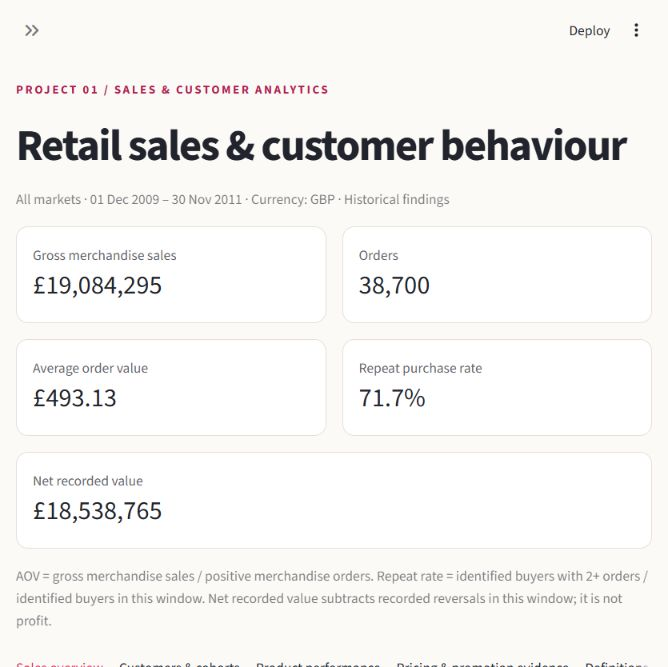
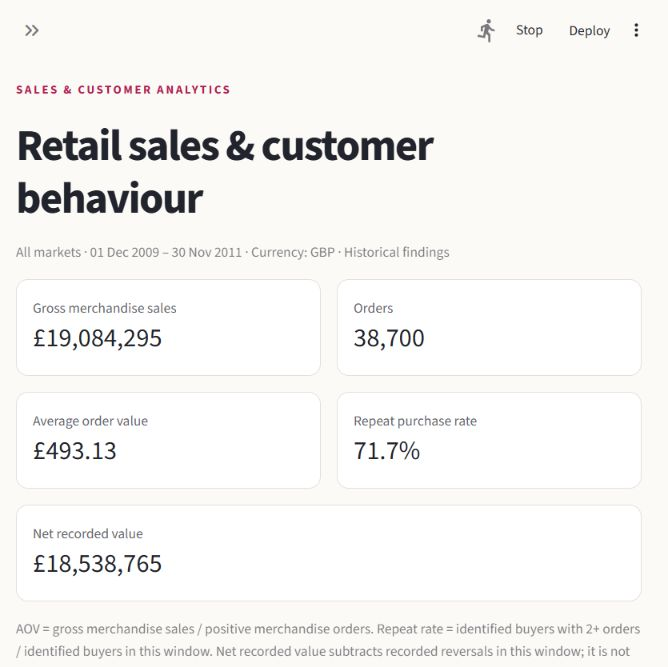
Use descriptive study names throughout the portfolio

diff --git a/retail_ops/sales_page.py b/retail_ops/sales_page.py
@@ -66,7 +66,7 @@ if len(window) != 2:
     st.info("Select both a start and an end date.")
     st.stop()
 start, end = window
-st.markdown('<div class="eyebrow">PROJECT 01 / SALES & CUSTOMER ANALYTICS</div>', unsafe_allow_html=True)
+st.markdown('<div class="eyebrow">SALES & CUSTOMER ANALYTICS</div>', unsafe_allow_html=True)
 st.title("Retail sales & customer behaviour")
 st.caption(f"{country} · {start:%d %b %Y} – {end:%d %b %Y} · Currency: GBP · Historical findings")
 if start.day != 1 or end != (pd.Timestamp(end) + pd.offsets.MonthEnd(0)).date():
@@ -152,7 +152,7 @@ with products:
     export(visible.drop(columns="label"), "products")
     st.subheader("Decisions to investigate")
     st.markdown(f"""
-- **Availability:** review the top 20 SKUs, which account for **{p.head(20).gross_sales_gbp.sum()/k.gross_sales_gbp:.1%}** of this selection's gross sales. Test replenishment rules in project 2 before claiming stockout reduction.
+- **Availability:** review the top 20 SKUs, which account for **{p.head(20).gross_sales_gbp.sum()/k.gross_sales_gbp:.1%}** of this selection's gross sales. Test replenishment rules in the inventory simulation before claiming stockout reduction.
 - **Retention:** compare recent one-time buyers with repeat buyers, then test a follow-up offer using a control group. Historical segment differences do not prove campaign uplift.
 - **Reversal exceptions:** investigate SKUs with high recorded reversals and check invoice-level context before changing assortment.
 - **Trading calendar:** use complete-month history to plan peak capacity. Validate any future plan with time-based forecast backtests.
@@ -178,7 +178,7 @@ with methods:
 - **Merchandise rule:** a five-digit SKU with up to two trailing letters. This is a documented heuristic; fees and manual adjustments are excluded.
 - **Duplicates:** remove identical invoice copies across source sheets. Retain repeated lines within an invoice because they may represent genuine order entries. The audit reports the sales sensitivity if duplicate candidates are dropped.
 - **Money:** integer thousandths of GBP preserve the source's three-decimal prices. No exchange-rate conversion, margin, or causal impact is claimed.
-- **Forecast handoff:** project 2 uses the same daily sales to compare forecasts with simple baselines, then replays inventory policies. Open Forecast & inventory in the navigation for its historical errors and simulated results.
+- **Forecast handoff:** the forecasting study uses the same daily sales to compare forecasts with simple baselines, then replays inventory policies. Open Forecast & inventory in the navigation for its historical errors and simulated results.
 """)
     st.subheader("Review the SQL behind each result")
     name = st.selectbox("Query", ["kpis", "monthly", "products", "segments", "cohorts", "countries", "price_variation"])

diff --git a/retail_ops/forecast_page.py b/retail_ops/forecast_page.py
@@ -17,7 +17,7 @@ h1 {letter-spacing:-1px;font-weight:750!important}
 @media(max-width:1000px){[data-testid="stHorizontalBlock"]{flex-wrap:wrap}
 [data-testid="stColumn"]{min-width:min(100%,240px);flex:1 1 240px!important}}
 </style>""", unsafe_allow_html=True)
-st.markdown('<div class="eyebrow">PROJECT 02 / FORECASTING & INVENTORY</div>', unsafe_allow_html=True)
+st.markdown('<div class="eyebrow">FORECASTING & INVENTORY</div>', unsafe_allow_html=True)
 st.title("Forecast accuracy meets inventory decisions")
 if not (OUT / "metadata.json").exists():
     st.info("Build this project first: python -m retail_ops.build_forecasting")
@@ -180,4 +180,4 @@ with design_tab:
     st.subheader("Training-only SKU selection")
     st.dataframe(data["selection"],hide_index=True,width="stretch")
     download(data["selection"],"training_selected_skus")
-    st.caption("Source: Chen, D. (2012), Online Retail II, UCI, CC BY 4.0. The common data audit and cleaning decisions are documented in project 1.")
+    st.caption("Source: Chen, D. (2012), Online Retail II, UCI, CC BY 4.0. The common data audit and cleaning decisions are documented in Sales & customers.")

diff --git a/retail_ops/build_forecasting.py b/retail_ops/build_forecasting.py
@@ -1,4 +1,4 @@
-"""Run project 2: frozen selection, historical evaluation, inventory simulation."""
+"""Run frozen model selection, historical evaluation and inventory simulation."""
 import hashlib
 import json
 from pathlib import Path
@@ -16,7 +16,7 @@ OUT = ROOT / "reports/forecasting"
 def build():
     source = ROOT / "data/processed/daily_sku_sales.parquet"
     if not source.exists():
-        raise SystemExit("Build project 1 first: python -m retail_ops.pipeline")
+        raise SystemExit("Build the shared warehouse first: python -m retail_ops.pipeline")
     OUT.mkdir(exist_ok=True, parents=True)
     panel = make_panel(pd.read_parquet(source))
     print("Validation: eight methods, 16 weekly origins, 50 training-selected SKUs...", flush=True)

diff --git a/retail_ops/pipeline.py b/retail_ops/pipeline.py
@@ -157,7 +157,7 @@ def build():
     for name in ["kpis", "monthly", "products", "segments", "cohorts", "countries", "price_variation"]:
         result = query(name)
         result.to_csv(report_dir / f"{name}.csv", index=False)
-    # Shared input for project 2. Missing dates are absent, not presumed zero demand.
+    # Shared forecasting input. Missing dates are absent, not presumed zero demand.
     with sqlite3.connect(DB) as con:
         pd.read_sql_query("""SELECT date, sku, country, SUM(quantity) AS units,
             SUM(value_mills)/1000.0 AS gross_sales_gbp

diff --git a/README.md b/README.md
@@ -2,9 +2,9 @@
 
 Retail sales, customer analytics, demand forecasting and inventory decisions, built by **Shikhar Shrivastav** as a business operations portfolio. Two substantial projects share one audited public transaction warehouse.
 
-**Project 1:** an interactive sales dashboard, seven SQL analyses, a reproducible data pipeline, audited metric definitions, and five historical business recommendations.
+**Sales & customer analytics:** an interactive sales dashboard, seven SQL analyses, a reproducible data pipeline, audited metric definitions, and five historical business recommendations.
 
-**Project 2:** training-only SKU selection, rolling-origin forecast evaluation against two baselines, frozen model selection, and 18 audited inventory policy/scenario replays. The candidate improves one-week WAPE from **55.11% to 52.00%** against the stronger baseline, but performs worse on inventory service and assumed cost. That negative operational finding is retained.
+**Demand forecasting & inventory decisions:** training-only SKU selection, rolling-origin forecast evaluation against two baselines, frozen model selection, and 18 audited inventory policy/scenario replays. The candidate improves one-week WAPE from **55.11% to 52.00%** against the stronger baseline, but performs worse on inventory service and assumed cost. That negative operational finding is retained.
 
 This uses public UK giftware sales. It does not contain Myntra data, fashion categories, live stock levels, or measured commercial impact.
 
@@ -40,7 +40,7 @@ The default window is **1 December 2009–30 November 2011**, covering complete 
 
 ## Explore Forecast & inventory
 
-Use the sidebar navigation to open the second project:
+Use the sidebar navigation to open Forecast & inventory:
 
 - **Forecast evaluation:** actual versus predicted weekly units, validation search, untouched holdout metrics, horizon-specific errors, SKU failures, and downloadable forecasts.
 - **Inventory scenarios:** lead time and safety-buffer controls, fill rate, unserved replay units, inventory levels, cost sensitivity, and the receive/order/fulfil ledger.
@@ -59,7 +59,7 @@ The study selects 50 active UK SKUs using the first 60 complete weeks only. It u
 | Interview explanation and questions | [Interview guide](docs/interview_guide.md) |
 | Forecasting design, loss functions and inventory equations | [Forecasting methodology](docs/forecasting_methodology.md) |
 | Forecast and inventory results, including the failed operational improvement | [Forecasting business review](docs/forecasting_review.md) |
-| Second-project interview explanation | [Forecasting interview guide](docs/forecasting_interview_guide.md) |
+| Forecasting interview explanation | [Forecasting interview guide](docs/forecasting_interview_guide.md) |
 | Actual SQL | [sql/](sql/) |
 | Regenerated historical result tables | [reports/](reports/) |
 | Data quality and source checksum | [reports/data_quality.json](reports/data_quality.json) |
@@ -78,7 +78,7 @@ Checks cover hand-verifiable invoices, future-data leakage, training-only select
 
 `data/raw/online_retail_II.xlsx` → normalized source cache → disposition and overlap audit → `sales`, `returns`, `orders` in `data/processed/retail.sqlite` → shared SQL → dashboard and historical CSVs.
 
-`sales` and `returns` contain merchandise line items. `orders` aggregates positive merchandise lines to one row per invoice. Raw source row and sheet references survive in both line tables. Daily observed units by SKU and market feed project 2's complete-week panel. Its absent SKU-weeks are treated as no recorded paid sales, explicitly not proof of zero unconstrained demand.
+`sales` and `returns` contain merchandise line items. `orders` aggregates positive merchandise lines to one row per invoice. Raw source row and sheet references survive in both line tables. Daily observed units by SKU and market feed the forecasting study's complete-week panel. Its absent SKU-weeks are treated as no recorded paid sales, explicitly not proof of zero unconstrained demand.
 
 ## Source and attribution
 

diff --git a/docs/business_review.md b/docs/business_review.md
@@ -29,7 +29,7 @@ Source tables: [KPIs](../reports/kpis.csv), [cohorts](../reports/cohorts.csv). A
 
 **Action:** start a replenishment review with a cumulative-sales tier rather than assuming a handful of bestsellers dominates the business. Add variability, margin, supplier lead time and availability before assigning stock targets.
 
-**Next measurement:** project 2 should compare forecast error and simulated fill rate/average stock across selected SKU groups. This analysis does not establish the right inventory quantity or a stockout reduction.
+**Next measurement:** compare forecast error and simulated fill rate/average stock across selected SKU groups in the forecasting study. This analysis does not establish the right inventory quantity or a stockout reduction.
 
 Source: [SKU results](../reports/products.csv), sorted by gross sales. The 80% boundary includes the first SKU that crosses the threshold.
 
@@ -49,7 +49,7 @@ Source: [Segments](../reports/segments.csv). Segment thresholds are descriptive 
 
 **Action:** review peak-period staffing, picking and replenishment capacity using order/unit workloads as well as sales value. Examine daily peaks before making a staffing plan. Avoid treating a peak-to-trough comparison as annual business growth.
 
-**Next measurement:** use rolling-origin forecasts and explicit forecast horizons in project 2. Two years of giftware seasonality do not establish future fashion demand.
+**Next measurement:** use rolling-origin forecasts and explicit forecast horizons in the forecasting study. Two years of giftware seasonality do not establish future fashion demand.
 
 Source: [Monthly trading](../reports/monthly.csv). The partial December 2011 is excluded from these comparisons.
 

diff --git a/docs/forecasting_methodology.md b/docs/forecasting_methodology.md
@@ -2,7 +2,7 @@
 
 ## Scope and calendar
 
-Use the same audited UCI source as project 1, restricted to **United Kingdom paid merchandise sales**. Form Monday–Sunday weeks. Exclude the partial first week (source starts Tuesday 1 December 2009) and partial final week (source ends Friday 9 December 2011). The study has 104 full weeks, beginning 7 December 2009 and ending 4 December 2011.
+Use the audited UCI source shared with the sales analysis, restricted to **United Kingdom paid merchandise sales**. Form Monday–Sunday weeks. Exclude the partial first week (source starts Tuesday 1 December 2009) and partial final week (source ends Friday 9 December 2011). The study has 104 full weeks, beginning 7 December 2009 and ending 4 December 2011.
 
 Missing SKU-weeks are filled with zero **recorded paid units**. This is a modelling assumption about the transaction record. It cannot distinguish no demand, unavailable stock, a product not listed, or missing records. Free units and reversed quantities do not enter the target. Gross paid sales may include invoices later cancelled; this is not unconstrained or net customer demand.
 

diff --git a/docs/methodology.md b/docs/methodology.md
@@ -56,4 +56,4 @@ To test an offer, predefine eligible customers, assign treatment/control randoml
 
 ## Forecast handoff
 
-The local daily SKU-market table contains observed positive paid units. These are sales, not unconstrained demand. Stock availability, lost sales, lead times, unit costs, shelf lives and supplier minimums are absent. Missing dates remain absent; project 2 must justify its calendar treatment and label all inventory assumptions and simulated outcomes.
+The local daily SKU-market table contains observed positive paid units. These are sales, not unconstrained demand. Stock availability, lost sales, lead times, unit costs, shelf lives and supplier minimums are absent. Missing dates remain absent at this stage; the forecasting methodology explains its calendar treatment and labels all inventory assumptions and simulated outcomes.

diff --git a/docs/forecasting_scope.md b/docs/forecasting_scope.md
@@ -1,4 +1,4 @@
-# Project 2: demand forecasting and inventory decisions
+# Demand forecasting and inventory decisions
 
 **Status: implemented.** This was the original scope. The completed [methodology](forecasting_methodology.md), [measured results](forecasting_review.md), and [interview guide](forecasting_interview_guide.md) document the final implementation. Forecast accuracy improves against the stronger baseline; the inventory candidate underperforms, and that result is preserved.
 
